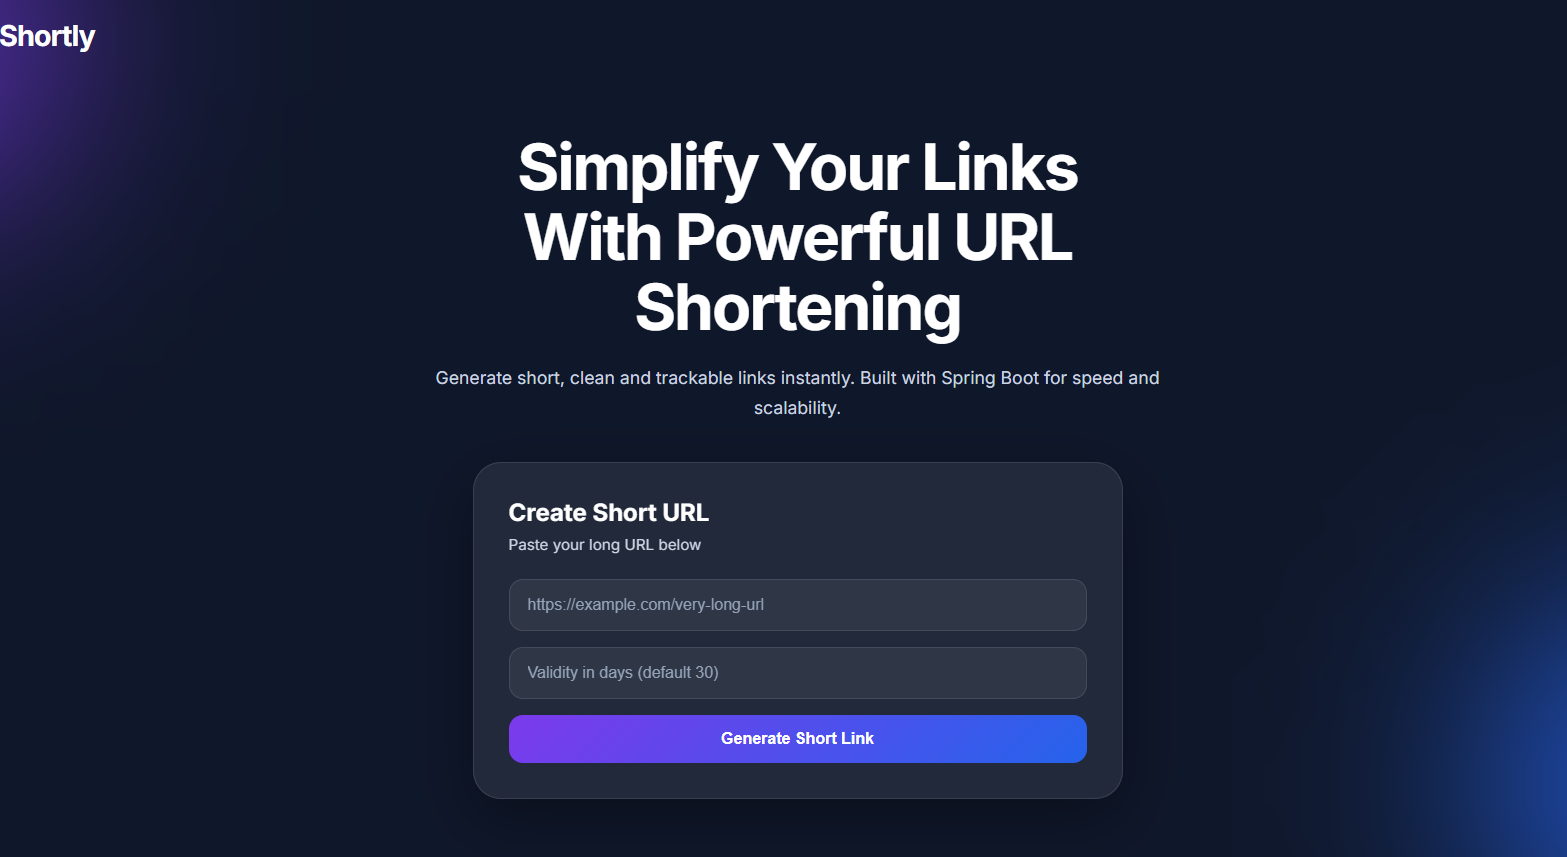
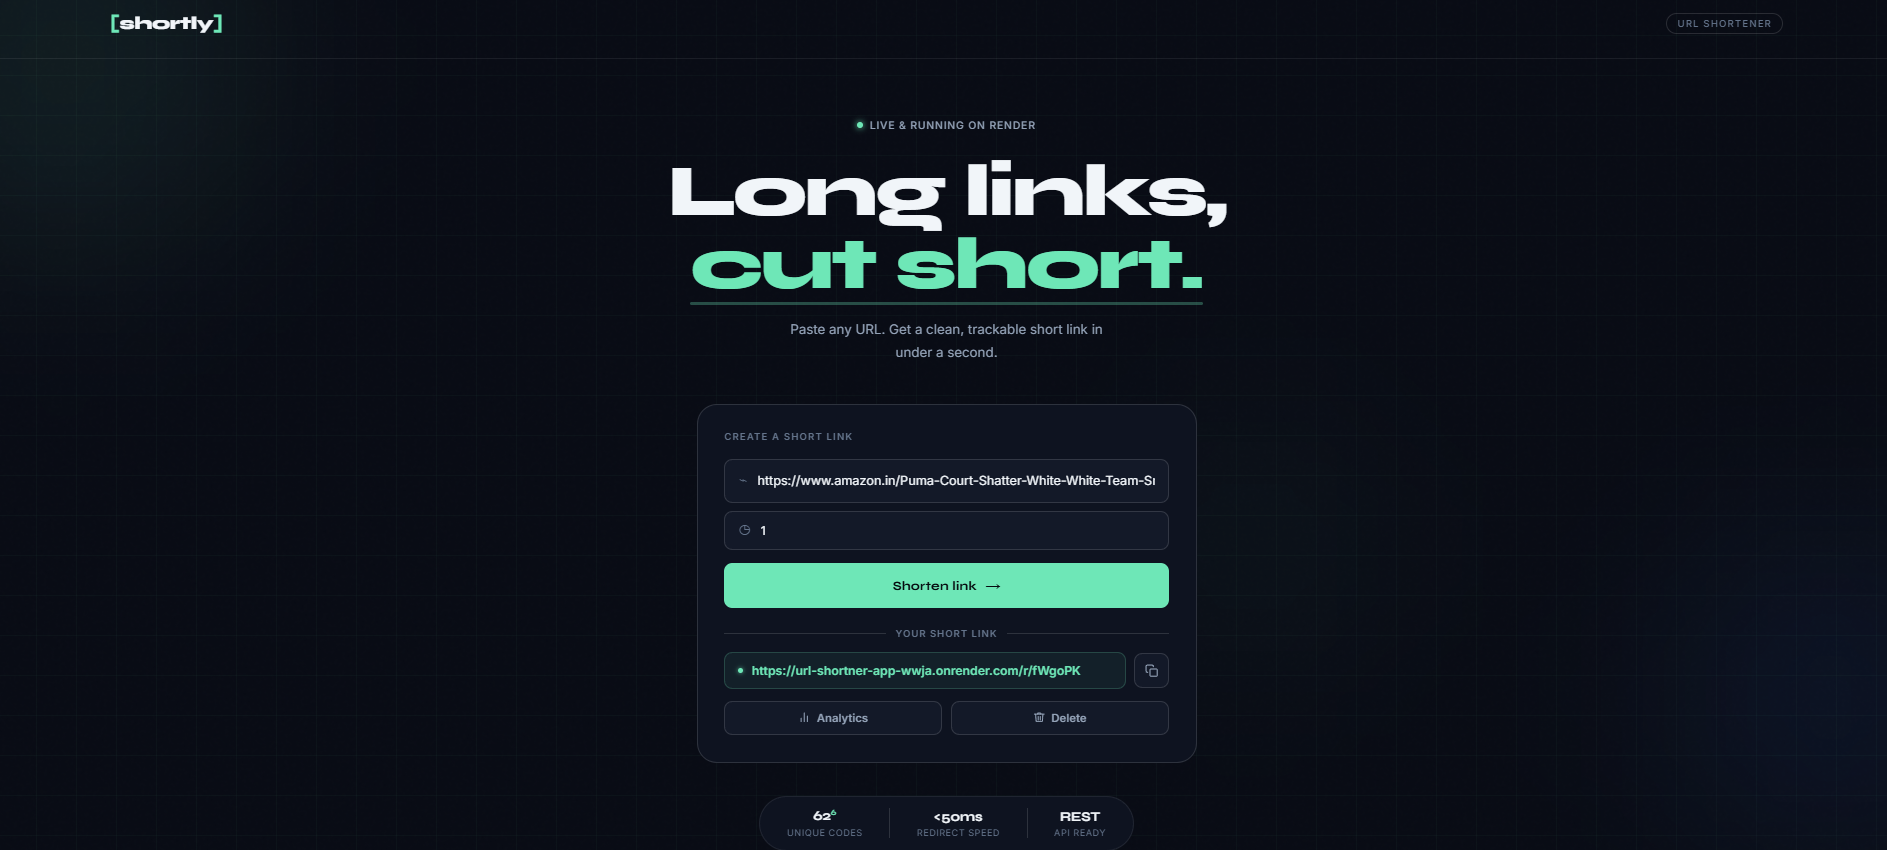
Readme file Update

diff --git a/src/main/java/urlshortner/exception/GlobalExceptionHandler.java b/src/main/java/urlshortner/exception/GlobalExceptionHandler.java
@@ -9,14 +9,12 @@ import org.springframework.web.bind.annotation.RestControllerAdvice;
 @RestControllerAdvice
 public class GlobalExceptionHandler {
 
-    // most specific — our own custom exception with controlled status
     @ExceptionHandler(UrlShortenerException.class)
     public ResponseEntity<ErrorResponse> handleUrlShortenerException(UrlShortenerException ex) {
         ErrorResponse error = new ErrorResponse(ex.getStatus().value(), ex.getMessage());
         return ResponseEntity.status(ex.getStatus()).body(error);
     }
 
-    // most specific — validation failures from @Valid
     @ExceptionHandler(MethodArgumentNotValidException.class)
     public ResponseEntity<ErrorResponse> handleValidationException(MethodArgumentNotValidException ex) {
         String message = ex.getBindingResult()
@@ -29,7 +27,6 @@ public class GlobalExceptionHandler {
         return ResponseEntity.status(HttpStatus.BAD_REQUEST).body(error);
     }
 
-    // fallback for any other runtime exception
     @ExceptionHandler(RuntimeException.class)
     public ResponseEntity<ErrorResponse> handleRuntimeException(RuntimeException ex) {
         ErrorResponse error = new ErrorResponse(
@@ -39,7 +36,6 @@ public class GlobalExceptionHandler {
         return ResponseEntity.status(HttpStatus.INTERNAL_SERVER_ERROR).body(error);
     }
 
-    // last resort — catches everything else
     @ExceptionHandler(Exception.class)
     public ResponseEntity<ErrorResponse> handleGeneralException(Exception ex) {
         ErrorResponse error = new ErrorResponse(

diff --git a/README.md b/README.md
@@ -1,251 +1,177 @@
-<img width="1786" height="829" alt="screenshot" src="https://github.com/user-attachments/assets/fdd9f4c1-b12a-46ec-b206-7c1c1ce491ca" />
-\# 🔗 URL Shortener Application
 
+# 🔗 URL Shortener Application
 
+A modern URL Shortener built using **Java Spring Boot** and **Vanilla JavaScript** that allows users to generate short URLs, manage links, track click statistics, and redirect users seamlessly.
 
-A simple and responsive URL Shortener application built using Spring Boot and Vanilla JavaScript.  
+---
 
-The application allows users to generate short URLs, redirect links, track clicks, and manage shortened URLs.
-
-
-
-\---
-
-
-
-\## 🌐 Live Demo
-
-
+## 🚀 Live Demo
 
 🔗 https://url-shortner-app-wwja.onrender.com/
 
+---
 
+## 📸 Application Preview
 
-\---
+<img width="1786" height="829" alt="URL Shortener Application" src="https://github.com/user-attachments/assets/fdd9f4c1-b12a-46ec-b206-7c1c1ce491ca" />
 
+---
 
+## ✨ Features
 
-\## ✨ Features
+* 🔗 Generate short URLs instantly
+* 📊 Track total clicks for each URL
+* ⏰ Configure URL expiration duration
+* 📈 View detailed URL statistics
+* 🗑 Delete shortened URLs
+* ↪ Automatic redirection to original URLs
+* 📱 Fully responsive user interface
+* ⚡ Fast and lightweight application
 
+---
 
+## 🛠 Tech Stack
 
-\- 🔗 Shorten long URLs
+| Category         | Technologies               |
+| ---------------- | -------------------------- |
+| Backend          | Java, Spring Boot          |
+| Frontend         | HTML5, CSS3, JavaScript    |
+| Database         | H2 Database                |
+| ORM              | Spring Data JPA, Hibernate |
+| Build Tool       | Maven                      |
+| Containerization | Docker                     |
+| Deployment       | Render                     |
 
-\- 📊 Track total clicks
+---
 
-\- ⏰ Set URL validity duration
+## 🏗 System Architecture
 
-\- 📈 View URL statistics
+```text
+User
+  │
+  ▼
+Frontend (HTML, CSS, JavaScript)
+  │
+  ▼
+Spring Boot REST API
+  │
+  ├── URL Generation
+  ├── Click Tracking
+  ├── URL Statistics
+  └── URL Deletion
+  │
+  ▼
+H2 Database
+```
 
-\- 🗑 Delete shortened URLs
+---
 
-\- ↪ Redirect to original URLs
-
-\- 📱 Responsive modern UI
-
-
-
-\---
-
-
-
-\## 🛠 Tech Stack
-
-
-
-| Layer | Technology |
-
-|---|---|
-
-| Backend | Java, Spring Boot |
-
-| Frontend | HTML, CSS, JavaScript |
-
-| Database | H2 Database |
-
-| ORM | Spring Data JPA, Hibernate |
-
-| Build Tool | Maven |
-
-| Deployment | Docker, Render |
-
-
-
-\---
-
-
-
-\## 📁 Project Structure
-
-
+## 📁 Project Structure
 
 ```bash
-
-src/
-
-├── main/
-
-│   ├── java/
-
-│   │   └── urlshortner/
-
-│   │       ├── controller/
-
-│   │       ├── service/
-
-│   │       ├── repository/
-
-│   │       ├── entity/
-
+src
+├── main
+│   ├── java
+│   │   └── urlshortner
+│   │       ├── controller
+│   │       ├── service
+│   │       ├── repository
+│   │       ├── entity
 │   │       └── Application.java
-
 │   │
-
-│   └── resources/
-
-│       ├── static/
-
+│   └── resources
+│       ├── static
 │       │   ├── index.html
-
 │       │   ├── style.css
-
 │       │   └── app.js
-
 │       │
-
 │       └── application.properties
-
 │
-
-└── test/
-
+└── test
 ```
 
+---
 
+## 📡 REST API Endpoints
 
-\---
+| Method | Endpoint                  | Description              |
+| ------ | ------------------------- | ------------------------ |
+| POST   | `/api/shorten`            | Create a shortened URL   |
+| GET    | `/r/{shortCode}`          | Redirect to original URL |
+| GET    | `/api/stats/{shortCode}`  | Retrieve URL statistics  |
+| DELETE | `/api/delete/{shortCode}` | Delete a shortened URL   |
 
+---
 
+## ⚙ Getting Started
 
-\## 📡 API Endpoints
-
-
-
-| Method | Endpoint | Description |
-
-|---|---|---|
-
-| POST | `/api/shorten` | Create short URL |
-
-| GET | `/r/{shortCode}` | Redirect to original URL |
-
-| GET | `/api/stats/{shortCode}` | Get URL statistics |
-
-| DELETE | `/api/delete/{shortCode}` | Delete short URL |
-
-
-
-\---
-
-
-
-\## ⚙ Run Locally
-
-
-
-\### Clone Repository
-
-
+### 1⃣ Clone the Repository
 
 ```bash
-
-git clone https://github.com/dynamicshreyashh/url\_shortner\_app.git
-
+git clone https://github.com/dynamicshreyashh/url_shortner_app.git
+cd url_shortner_app
 ```
 
-
-
-\### Navigate to Project
-
-
+### 2⃣ Build the Project
 
 ```bash
-
-cd url\_shortner\_app
-
-```
-
-
-
-\### Build Project
-
-
-
-```bash
-
 mvn clean package
-
 ```
 
-
-
-\### Run Application
-
-
+### 3⃣ Run the Application
 
 ```bash
-
 java -jar target/urlshortner-0.0.1-SNAPSHOT.jar
-
 ```
 
+### 4⃣ Access the Application
 
+```text
+http://localhost:8080
+```
 
-\---
+---
 
+## 🐳 Docker Setup
 
-
-\## 🐳 Docker Setup
-
-
-
-\### Build Docker Image
-
-
+### Build Docker Image
 
 ```bash
-
 docker build -t url-shortener .
-
 ```
 
-
-
-\### Run Docker Container
-
-
+### Run Docker Container
 
 ```bash
-
 docker run -p 8080:8080 url-shortener
-
 ```
 
+Application will be available at:
 
+```text
+http://localhost:8080
+```
 
-\---
+---
 
+## 🎯 Future Enhancements
 
+* User Authentication & Authorization
+* Custom Alias Support
+* QR Code Generation
+* Analytics Dashboard
+* PostgreSQL/MySQL Support
+* Redis Caching
 
-\## 👨💻 Author
+---
 
+## 👨💻 Author
 
+### Shreyash Bhosale
 
-Shreyash Bhosale
+* GitHub: https://github.com/dynamicshreyashh
+* Portfolio: https://shreyas-h-portfolio.vercel.app/
 
+---
 
-
-GitHub:  
-
-https://github.com/dynamicshreyashh
-
+⭐ If you found this project useful, consider giving it a star on GitHub!
